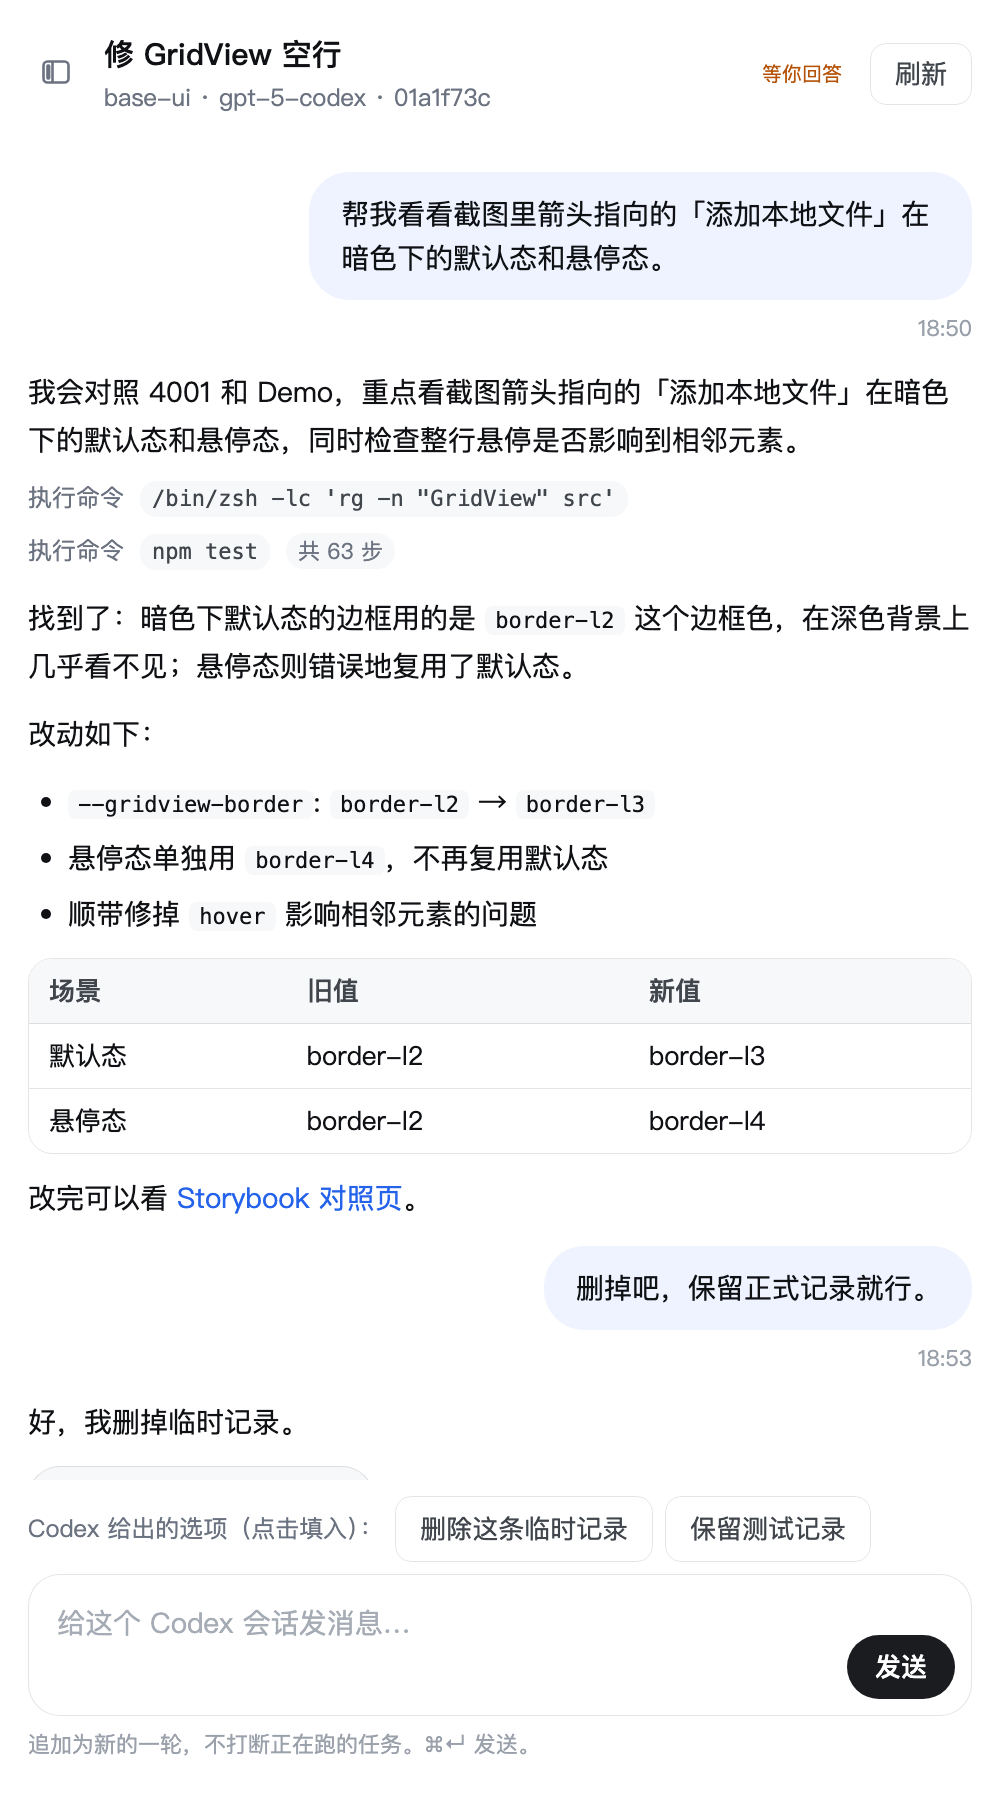
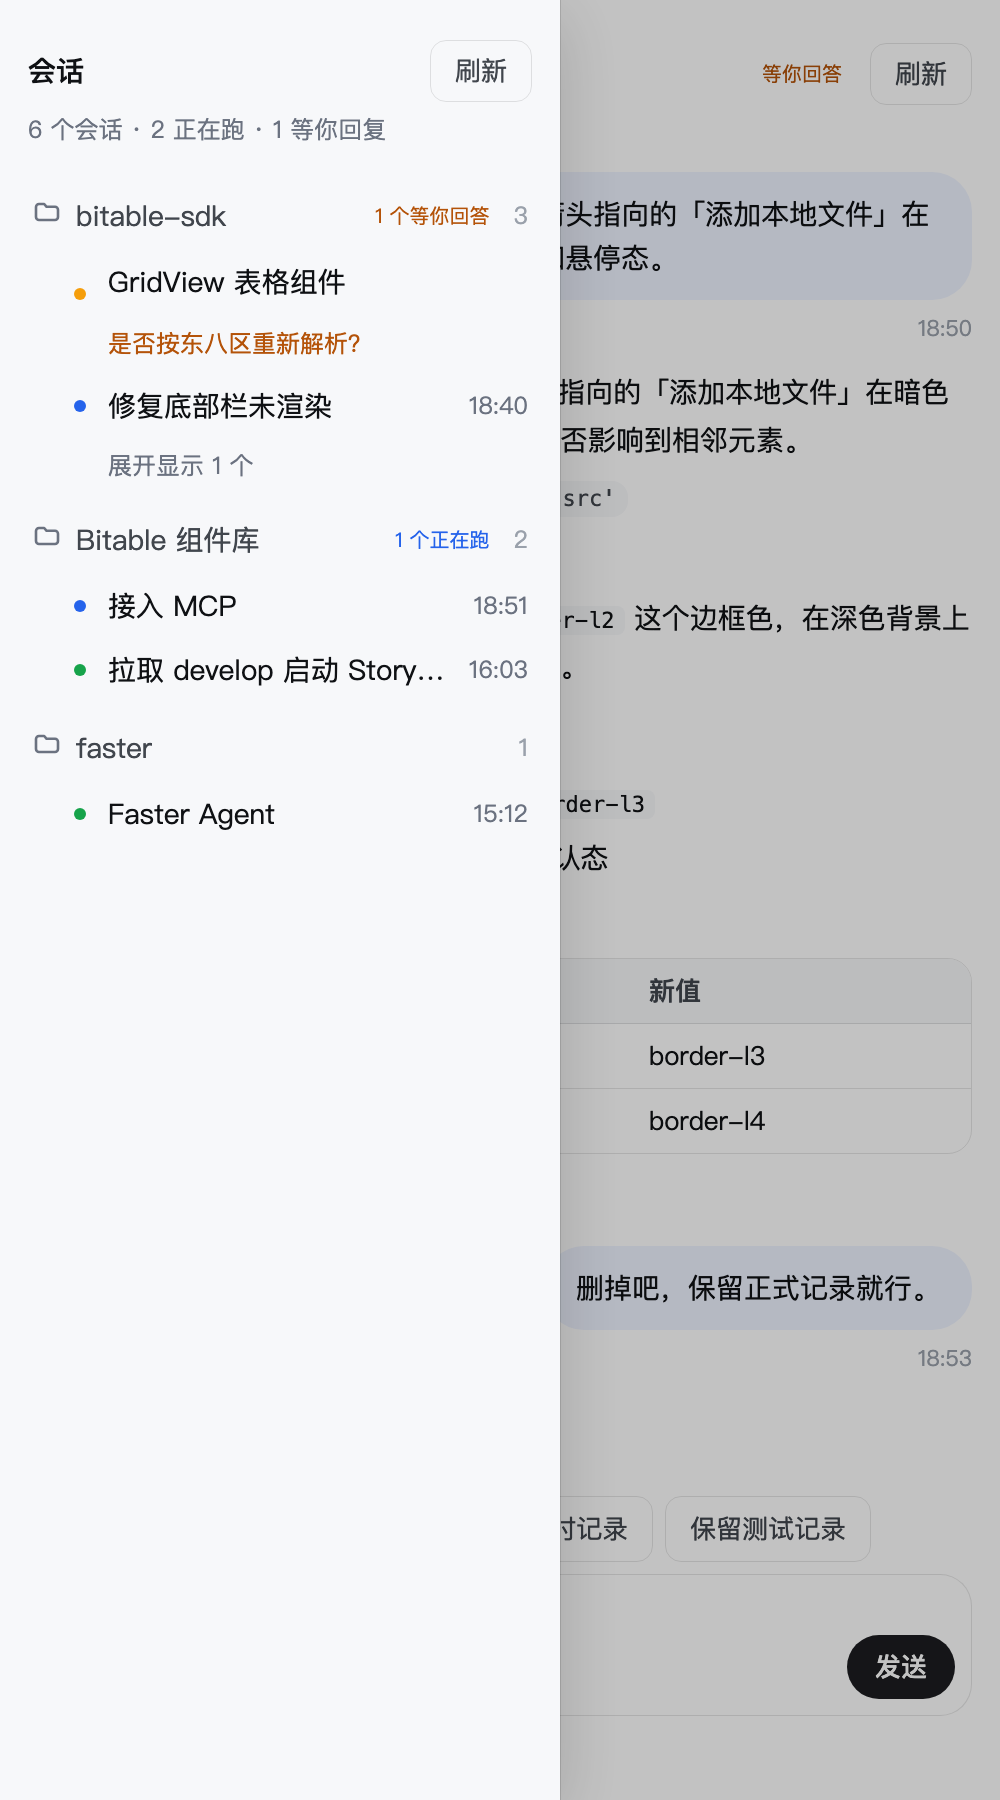
Match DSH's own mobile sidebar behaviour instead of inventing one
The previous commit picked its own breakpoint, its own scrim colour, and a row-height
bump on coarse pointers. All three were guesses. dsh-client-ui-layout already has a
considered answer and this now uses it verbatim:

- Two thresholds, not one: SIDEBAR_AUTO_COLLAPSE = 1024 collapses the sidebar, and
  viewport < 768 turns it into a drawer. My 640px conflated the two.
- The drawer slides with translate(-100%) and visibility:hidden delayed by the
  transition, rather than display:none, so it can animate at all. Width is
  min(280px, viewport - 48px), the same expression DSH computes for sidebarWidth.
- The scrim is --dsw-alias-bg-mask-1 with --dsw-mask-blur and
  --ds-transition-duration-slow/--ds-ease-in-out, not a hand-mixed rgba.
- DSH's coarse-pointer rule touches exactly one thing: input font-size to 16px, to
  stop iOS zooming on focus. It does not change row height. The 40px rows are gone.

The drawer keeps an opaque fill. DSH layers a 50% translucent sidebar over an opaque
one, but here the list is the opaque layer, so copying the translucent value made the
transcript show through the row text.

Drawer state rides on data-drawer, mirroring data-sidebar-drawer, and the scrim sits
right after the pane so a sibling selector follows the open state without a second
piece of state. Checks cover the narrow default, the drawer marking, and that desktop
is not a drawer.

diff --git a/plugin/client.js b/plugin/client.js
@@ -443,16 +443,48 @@ window.__ModuleLoader__.load({
 .cxm-bad{color:var(--dsw-alias-state-error-primary);font-size:11px;line-height:16px;
   overflow-wrap:anywhere}
 
-/* 窄屏 / 触屏：两栏并排会挤到不可用，改成列表覆盖在对话之上。
-   用 pointer:coarse 而不是固定像素宽度，和 DSH 自己的判断一致。 */
-@media (max-width: 640px) {
-  .cxm-page{position:relative}
-  .cxm-list-pane{position:absolute;inset:0 auto 0 0;z-index:2;
-    width:min(86vw,320px);background:var(--dsw-alias-bg-base);
-    box-shadow:0 0 0 1px var(--dsw-alias-border-l3), 8px 0 24px rgba(0,0,0,.12)}
-  /* 抽屉打开时压一层遮罩：点它就能关掉列表，不用非得找到开合按钮。 */
-  .cxm-scrim{position:absolute;inset:0;z-index:1;border:0;padding:0;
-    background:rgba(0,0,0,.28);cursor:pointer;display:block}
+/* 窄屏适配照抄 DSH 左侧栏（dsh-client-ui-layout）的做法，不自己定断点：
+   - 视口 < 1024 自动收起侧栏（SIDEBAR_AUTO_COLLAPSE = 1024）
+   - 视口 < 768 改成抽屉覆盖（drawer = viewport < 768）
+   - 抽屉用 translate(-100%) 滑出，不用 display:none，才能有过渡
+   - 宽度 min(280, viewport - 48)，和 DSH 的 sidebarWidth 一致
+   - 遮罩用 --dsw-alias-bg-mask-1 + --dsw-mask-blur，不用自造的 rgba
+   抽屉态由 JS 打上 data-drawer，跟 DSH 用 data-sidebar-drawer 一样。 */
+
+/* 抽屉态：列表浮在对话之上，收起时整块平移出屏外。 */
+.cxm-page[data-drawer='true']{position:relative}
+.cxm-page[data-drawer='true'] .cxm-list-pane{position:absolute;inset:0 auto 0 0;z-index:71;
+  width:min(280px, calc(100% - 48px));box-sizing:border-box;
+  /* DSH 在抽屉态把侧栏底色做成半透明玻璃，但那是「容器」层：它底下还有一层
+     不透明的 sidebar-fill 托着，文字不会透出后面的对话。这里列表本身就是容器，
+     所以用不透明底色，只把阴影和圆角交给 DSH 的观感。 */
+  background:var(--dsw-specific-sidebar-fill, var(--dsw-alias-bg-base));
+  border-right:none;
+  box-shadow:0 0 0 .5px var(--dsw-alias-border-l3), 0 8px 32px rgba(0,0,0,.16);
+  transition:transform var(--ds-transition-duration-slow) var(--ds-ease-in-out),
+    visibility 0s linear var(--ds-transition-duration-slow);
+  transform:translate(0);visibility:visible}
+.cxm-page[data-drawer='true'] .cxm-list-pane[data-open='false']{
+  transform:translate(-100%);visibility:hidden}
+/* 列表已经滑出屏幕，display:none 会让过渡失效，所以抽屉态下不再隐藏它。 */
+.cxm-page[data-drawer='true'] .cxm-list-pane[data-open='false']{display:flex}
+
+/* 遮罩：盖住对话，点它关闭列表。 */
+.cxm-drawer-mask{position:absolute;inset:var(--dsh-frame-chrome-top,0px) 0 0;z-index:70;
+  border:0;padding:0;background:var(--dsw-alias-bg-mask-1);
+  -webkit-backdrop-filter:var(--dsw-mask-blur);backdrop-filter:var(--dsw-mask-blur);
+  opacity:0;pointer-events:none;
+  transition:opacity var(--ds-transition-duration-slow) var(--ds-ease-in-out)}
+.cxm-page[data-drawer='true'] .cxm-list-pane[data-open='true'] ~ .cxm-drawer-mask{opacity:1;pointer-events:auto}
+/* 遮罩在 DOM 里必须紧跟列表，用兄弟选择器判断开合，省一份状态。 */
+
+/* 触屏上 DSH 只做一件事：把输入框字号提到 16px，避免 iOS 聚焦时页面被放大。
+   行高它没有改，所以这里也不改。 */
+@media (pointer:coarse) {
+  .cxm-textarea{font-size:16px}
+}
+
+@media (max-width: 767px) {
   .cxm-chat-pane{overflow-x:hidden}
   .cxm-transcript{padding-inline:14px}
   .cxm-composer{padding-inline:14px}
@@ -460,12 +492,6 @@ window.__ModuleLoader__.load({
   .cxm-chat-top{padding-inline:14px}
   /* 长代码行和表格在窄屏必须自己滚动，不能把整页撑宽。 */
   .cxm-md-pre{max-width:100%}
-}
-@media (pointer:coarse) {
-  /* 触屏上 32px 的行高偏紧，抬到 40px 才够点。 */
-  .cxm-row{height:40px}
-  .cxm-group-head{height:40px}
-  .cxm-list-toggle{width:36px;height:36px}
 }
 
 /* shared states */
@@ -1222,10 +1248,21 @@ window.__ModuleLoader__.load({
     }
 
     // ── page ────────────────────────────────────────────────────────────────
-    /** 窄屏判定。SSR/测试环境没有 matchMedia 时按桌面处理。 */
+    // DSH 左侧栏的两个阈值（dsh-client-ui-layout）：
+    // 视口 < 1024 自动收起侧栏，视口 < 768 改成抽屉覆盖。
+    const SIDEBAR_AUTO_COLLAPSE = 1024
+    const DRAWER_MAX = 768
+
+    /** 视口是否窄到该自动收起侧栏。SSR/测试环境没有 matchMedia 时按桌面处理。 */
     function isNarrow() {
       if (typeof window === 'undefined' || !window.matchMedia) return false
-      return window.matchMedia('(max-width: 640px)').matches
+      return window.matchMedia(`(max-width: ${SIDEBAR_AUTO_COLLAPSE - 1}px)`).matches
+    }
+
+    /** 视口是否窄到该把侧栏改成抽屉覆盖。 */
+    function isDrawer() {
+      if (typeof window === 'undefined' || !window.matchMedia) return false
+      return window.matchMedia(`(max-width: ${DRAWER_MAX - 1}px)`).matches
     }
 
     function MonitorPage() {
@@ -1236,24 +1273,36 @@ window.__ModuleLoader__.load({
       const [collapsed, setCollapsed] = useState({})
       // Projects whose full session list was expanded past the default cap.
       const [expanded, setExpanded] = useState({})
-      // 窄屏判定：用 matchMedia 而不是读一次 innerWidth，这样旋转屏幕或拖动窗口
-      // 改变宽度时能跟着变，而不是停在挂载那一刻的结论上。
+      // 宽度判定用 matchMedia 而不是读一次 innerWidth，旋转屏幕或改窗口大小时能跟着变。
       const [narrow, setNarrow] = useState(() => isNarrow())
-      // 列表是否展开。窄屏默认收起，先把对话让出来；桌面默认展开。
+      const [drawer, setDrawer] = useState(() => isDrawer())
+      // 列表是否展开。窄到该自动收起时默认收起，先把对话让出来。
       const [listOpen, setListOpen] = useState(() => !isNarrow())
 
       useEffect(() => {
         if (typeof window === 'undefined' || !window.matchMedia) return undefined
-        const mq = window.matchMedia('(max-width: 640px)')
-        const sync = () => setNarrow(mq.matches)
+        const mqNarrow = window.matchMedia(`(max-width: ${SIDEBAR_AUTO_COLLAPSE - 1}px)`)
+        const mqDrawer = window.matchMedia(`(max-width: ${DRAWER_MAX - 1}px)`)
+        const sync = () => {
+          setNarrow(mqNarrow.matches)
+          setDrawer(mqDrawer.matches)
+        }
         sync()
         // Safari 老版本只有 addListener，两个都挂上，缺哪个用另一个。
-        if (mq.addEventListener) {
-          mq.addEventListener('change', sync)
-          return () => mq.removeEventListener('change', sync)
+        const on = (mq) => {
+          if (mq.addEventListener) {
+            mq.addEventListener('change', sync)
+            return () => mq.removeEventListener('change', sync)
+          }
+          mq.addListener(sync)
+          return () => mq.removeListener(sync)
         }
-        mq.addListener(sync)
-        return () => mq.removeListener(sync)
+        const offNarrow = on(mqNarrow)
+        const offDrawer = on(mqDrawer)
+        return () => {
+          offNarrow()
+          offDrawer()
+        }
       }, [])
       const [detail, setDetail] = useState(null)
       const [detailError, setDetailError] = useState(null)
@@ -1387,16 +1436,7 @@ window.__ModuleLoader__.load({
 
       return h(
         'div',
-        { className: 'cxm-page' },
-        // 窄屏上列表是覆盖层，需要一层遮罩来承接「点空白处关闭」。
-        listOpen && narrow
-          ? h('button', {
-              type: 'button',
-              className: 'cxm-scrim',
-              'aria-label': t('list.hide'),
-              onClick: () => setListOpen(false),
-            })
-          : null,
+        { className: 'cxm-page', 'data-drawer': drawer ? 'true' : 'false' },
         h(
           'div',
           { className: 'cxm-list-pane', 'data-open': listOpen ? 'true' : 'false' },
@@ -1432,6 +1472,15 @@ window.__ModuleLoader__.load({
           ),
           h('div', { className: 'cxm-list-body' }, listBody()),
         ),
+        // 遮罩紧跟列表，靠 CSS 兄弟选择器跟着列表开合，不用第二份状态。
+        // 只有抽屉态才需要它；宽屏下它是 pointer-events:none，点不到。
+        h('button', {
+          type: 'button',
+          className: 'cxm-drawer-mask',
+          tabIndex: -1,
+          'aria-hidden': 'true',
+          onClick: () => setListOpen(false),
+        }),
         selected
           ? h(Conversation, {
               t,
